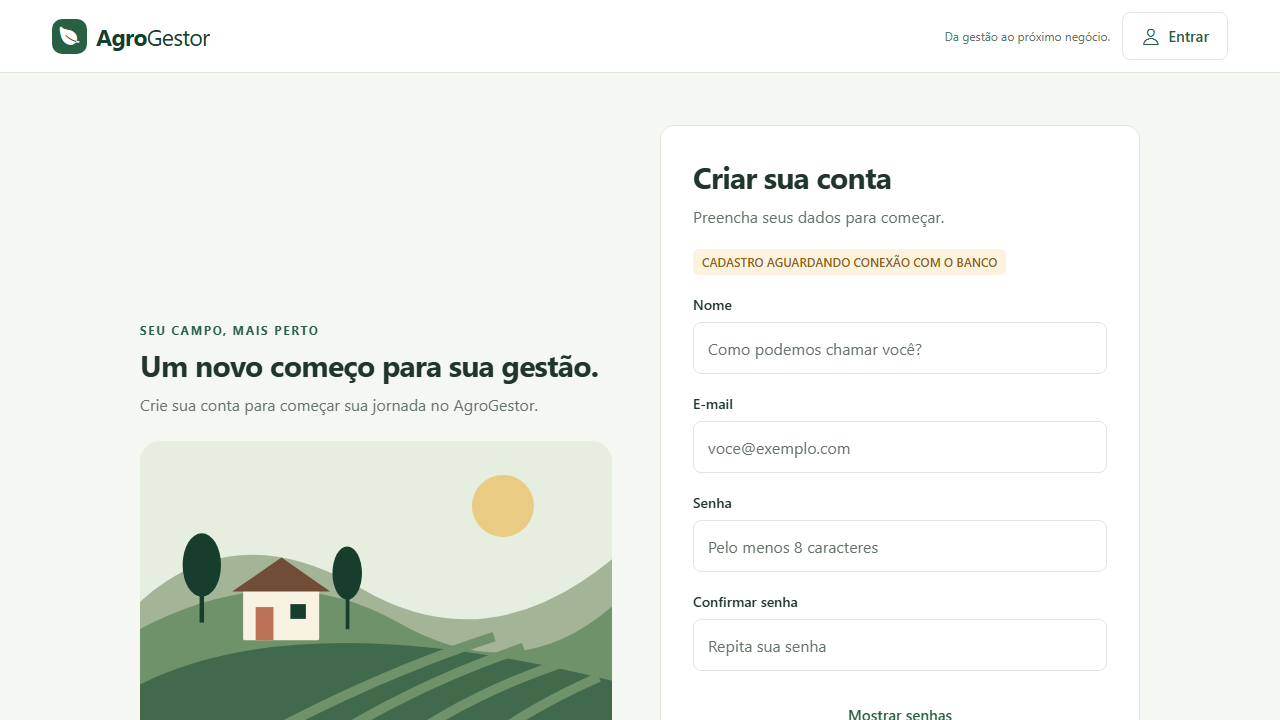
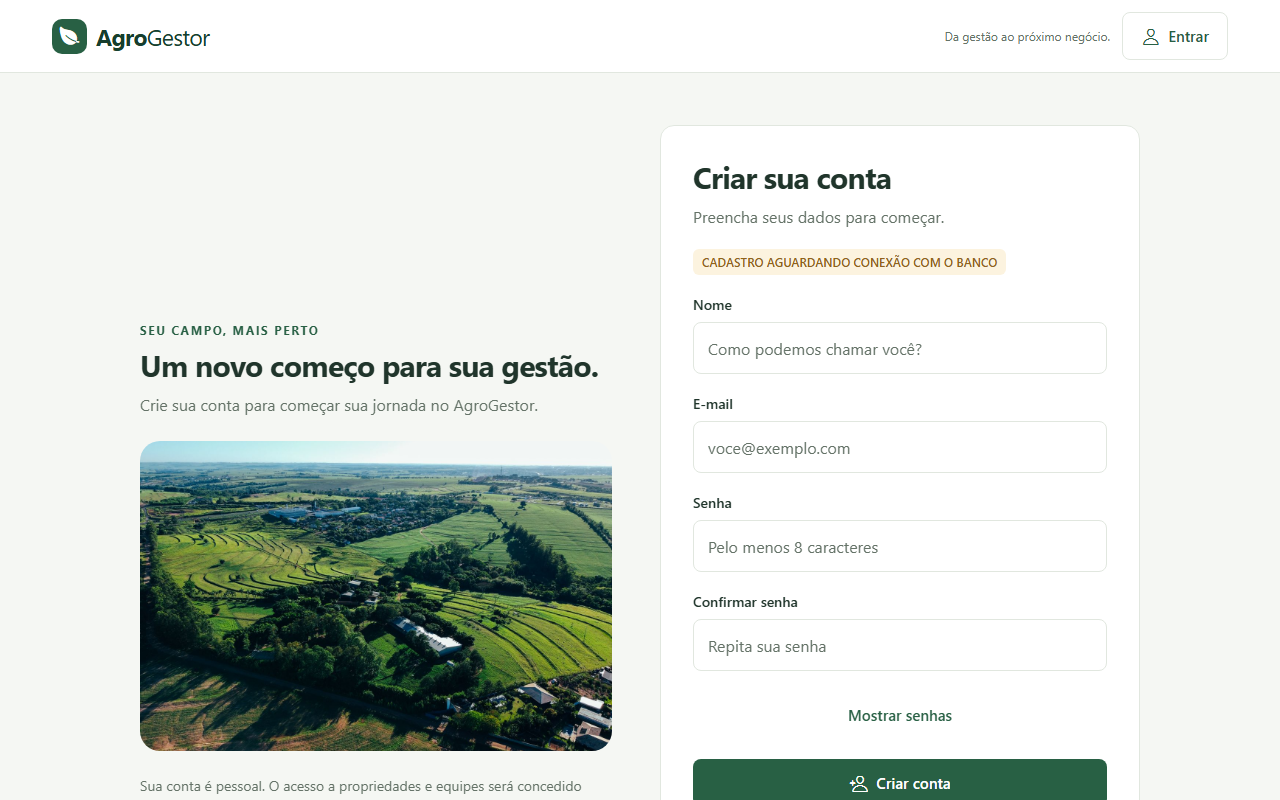
feat: replace rural illustrations with bundled photographs

diff --git a/src/components/RuralPhoto.tsx b/src/components/RuralPhoto.tsx
@@ -1,0 +1,41 @@
+import { Image } from "react-native";
+import type { Opportunity } from "../types/domain";
+
+const photos = {
+  countryside: {
+    source: require("../../assets/photos/countryside.jpg"),
+    label: "Vista aérea dos campos de São Simão, em São Paulo",
+  },
+  land: {
+    source: require("../../assets/photos/land.jpg"),
+    label: "Propriedade rural cercada por mata em Barra do Turvo",
+  },
+  cattle: {
+    source: require("../../assets/photos/cattle.jpg"),
+    label: "Gado Nelore em uma pastagem verde",
+  },
+  crop: {
+    source: require("../../assets/photos/crop.jpg"),
+    label: "Detalhe dos grãos amarelos de uma espiga de milho",
+  },
+  lease: {
+    source: require("../../assets/photos/lease.jpg"),
+    label: "Vista aérea de áreas agrícolas na região de Maringá",
+  },
+};
+
+export function RuralPhoto({
+  variant = "countryside",
+}: {
+  variant?: Opportunity["art"] | "countryside";
+}) {
+  const photo = photos[variant];
+  return (
+    <Image
+      source={photo.source}
+      accessibilityLabel={photo.label}
+      resizeMode="cover"
+      style={{ width: "100%", height: "100%" }}
+    />
+  );
+}

diff --git a/src/screens/LoginScreen.tsx b/src/screens/LoginScreen.tsx
@@ -4,7 +4,7 @@ import { Redirect, router } from "expo-router";
 import { Screen } from "../components/Layout";
 import { AppButton, AppInput, Badge, Card, Heading, s } from "../components/ui";
 import { ErrorState, LoadingState } from "../components/States";
-import { RuralArt } from "../components/RuralArt";
+import { RuralPhoto } from "../components/RuralPhoto";
 import { authService, isDemoMode, useAuth } from "../auth/AuthContext";
 import { entryRoute, roleLabels } from "../auth/permissions";
 import { colors as c } from "../theme";
@@ -62,7 +62,7 @@ export default function LoginScreen() {
               Bom ter você por aqui.
             </Heading>
             <View style={{ height: 310, borderRadius: 20, overflow: "hidden" }}>
-              <RuralArt />
+              <RuralPhoto variant="land" />
             </View>
             <Text style={s.body}>
               Gestão rural e oportunidades, cada uma com seu espaço.

diff --git a/src/screens/RegisterScreen.tsx b/src/screens/RegisterScreen.tsx
@@ -4,7 +4,7 @@ import { Redirect, router } from "expo-router";
 import { Screen } from "../components/Layout";
 import { AppButton, AppInput, Badge, Card, Heading, s } from "../components/ui";
 import { ErrorState, LoadingState } from "../components/States";
-import { RuralArt } from "../components/RuralArt";
+import { RuralPhoto } from "../components/RuralPhoto";
 import { useAuth } from "../auth/AuthContext";
 import { entryRoute } from "../auth/permissions";
 import { supabase } from "../services/supabase";
@@ -75,7 +75,7 @@ export default function RegisterScreen() {
               Um novo começo para sua gestão.
             </Heading>
             <View style={{ height: 310, borderRadius: 20, overflow: "hidden" }}>
-              <RuralArt />
+              <RuralPhoto variant="lease" />
             </View>
             <Text style={s.body}>
               Sua conta é pessoal. O acesso a propriedades e equipes será

diff --git a/src/screens/MarketplaceScreen.tsx b/src/screens/MarketplaceScreen.tsx
@@ -5,7 +5,7 @@ import { Screen } from "../components/Layout";
 import { AppButton, AppInput, Badge, Card, Heading, s } from "../components/ui";
 import { EmptyState, ErrorState, LoadingState } from "../components/States";
 import { OpportunityCard } from "../components/OpportunityCard";
-import { RuralArt } from "../components/RuralArt";
+import { RuralPhoto } from "../components/RuralPhoto";
 import { MarketplaceService } from "../services/data";
 import { useResource } from "../hooks/useResource";
 import { useAuth } from "../auth/AuthContext";
@@ -145,7 +145,7 @@ export function OpportunityScreen() {
                 overflow: "hidden",
               }}
             >
-              <RuralArt variant={item.art} />
+              <RuralPhoto variant={item.art} />
             </View>
             <Card style={{ flex: 1, gap: 22 }}>
               <Badge label="OPORTUNIDADE DE DEMONSTRAÇÃO" tone="warning" />

diff --git a/src/screens/LandingScreen.tsx b/src/screens/LandingScreen.tsx
@@ -2,7 +2,7 @@ import { Text, View, useWindowDimensions } from "react-native";
 import { router } from "expo-router";
 import { Screen } from "../components/Layout";
 import { AppButton, Badge, Icon, s } from "../components/ui";
-import { RuralArt } from "../components/RuralArt";
+import { RuralPhoto } from "../components/RuralPhoto";
 import { colors as c } from "../theme";
 export default function LandingScreen() {
   const { width } = useWindowDimensions();
@@ -74,7 +74,7 @@ export default function LandingScreen() {
               overflow: "hidden",
             }}
           >
-            <RuralArt />
+            <RuralPhoto />
           </View>
           <View
             style={{

diff --git a/src/components/OpportunityCard.tsx b/src/components/OpportunityCard.tsx
@@ -1,6 +1,6 @@
 import { Text, View } from "react-native";
 import type { Opportunity } from "../types/domain";
-import { RuralArt } from "./RuralArt";
+import { RuralPhoto } from "./RuralPhoto";
 import { AppButton, Badge, Icon, s } from "./ui";
 import { colors as c } from "../theme";
 export function OpportunityCard({
@@ -28,7 +28,7 @@ export function OpportunityCard({
       }}
     >
       <View style={{ height: 180 }}>
-        <RuralArt variant={item.art} />
+        <RuralPhoto variant={item.art} />
         <View style={{ position: "absolute", left: 14, top: 14 }}>
           <Badge label={item.category} />
         </View>

diff --git a/README.md b/README.md
@@ -145,8 +145,16 @@ docs/                   Plano, relatório, inventário e capturas
 ```
 
 As telas consomem serviços; os serviços recebem mocks. O catálogo público não
-deriva do cadastro privado da fazenda. A ilustração vetorial `RuralArt` está
-embutida no aplicativo; não depende de serviço remoto de imagens.
+deriva do cadastro privado da fazenda. As fotografias ilustrativas são distribuídas com o aplicativo em
+`assets/photos`. As imagens do catálogo representam as categorias dos anúncios fictícios.
+
+Fotografias do [Pexels](https://www.pexels.com/license/):
+
+- [Campos de São Simão](https://www.pexels.com/photo/31329145/), Clodoaldo Franco.
+- [Propriedade em Barra do Turvo](https://www.pexels.com/photo/17086468/), Threze Gue.
+- [Gado Nelore em Porto Feliz](https://www.pexels.com/photo/31026897/), Matheus Lara.
+- [Espiga de milho](https://www.pexels.com/photo/35072884/), Valentin Ivantsov.
+- [Área rural de Maringá](https://www.pexels.com/photo/14515234/), Vidal Balielo Jr.
 
 ## Verificações
 
